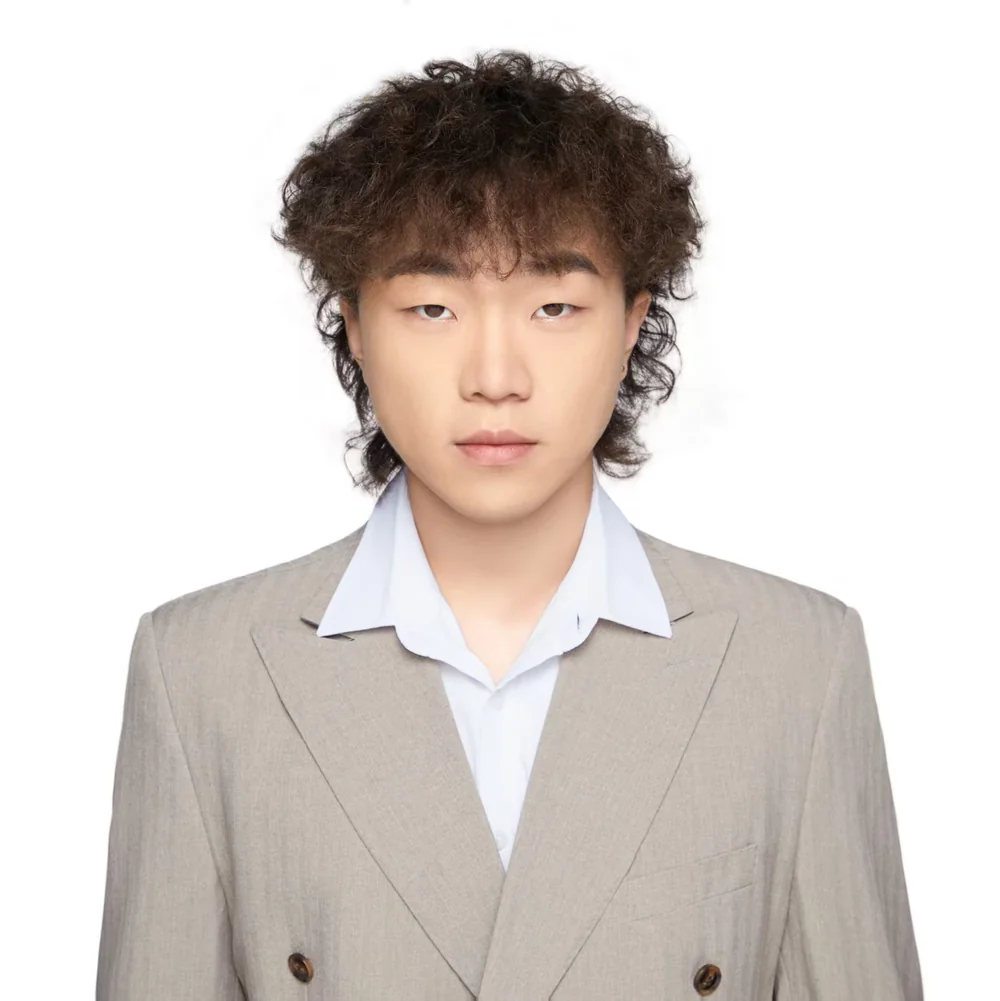
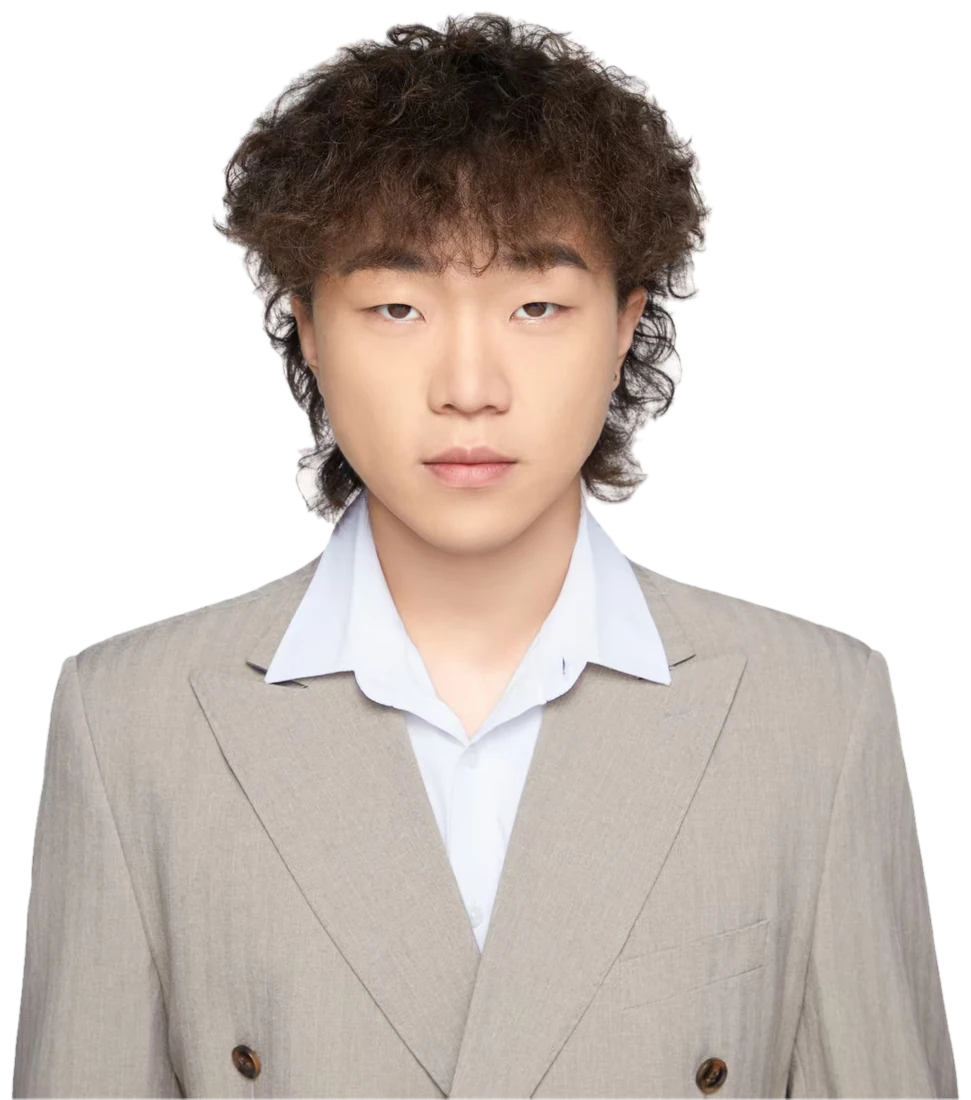
首页人物抠图去白底、移除证件照标签

diff --git a/index.html b/index.html
@@ -8,7 +8,7 @@
 <title>刘士博｜工业设计与产品开发</title>
 <style>
 :root{--paper:#f4f2ec;--white:#fffefa;--ink:#20211e;--muted:#73756e;--line:#d9d8d0;--accent:#d65b3d;--sage:#dfe6d8;--serif:Georgia,"Noto Serif SC",serif;--sans:Inter,"Microsoft YaHei","PingFang SC",sans-serif}
-*{box-sizing:border-box}html{scroll-behavior:smooth}body{margin:0;background:var(--paper);color:var(--ink);font-family:var(--sans);font-size:15px;line-height:1.65}a{color:inherit;text-decoration:none}button{font:inherit;color:inherit}.wrap{width:min(1180px,calc(100% - 64px));margin:auto}.topbar{height:82px;display:flex;align-items:center;justify-content:space-between;border-bottom:1px solid var(--line)}.brand{font-size:15px;font-weight:800;letter-spacing:.12em}.brand span{display:block;font-size:10px;color:var(--muted);font-weight:500;letter-spacing:.15em;margin-top:1px}.nav{display:flex;gap:30px;align-items:center;font-size:13px;color:#555750}.nav a:hover,.text-link:hover{color:var(--accent)}.nav .contact-pill{background:var(--ink);color:white;border-radius:30px;padding:10px 18px}.hero{min-height:590px;display:grid;grid-template-columns:1.02fr .98fr;gap:48px;align-items:center;padding:56px 0 70px}.eyebrow{display:flex;align-items:center;gap:10px;color:var(--muted);font-size:12px;letter-spacing:.12em;text-transform:uppercase}.eyebrow:before{content:"";width:26px;height:1px;background:var(--accent)}h1{font-size:clamp(44px,6vw,76px);line-height:1.12;letter-spacing:-.055em;margin:25px 0 20px;font-weight:650}h1 em{font-style:normal;color:var(--accent)}.hero-copy{font-size:17px;max-width:560px;color:#555750;line-height:1.9}.hero-tags{display:flex;gap:9px;flex-wrap:wrap;margin:25px 0 30px}.tag{border:1px solid #cecec5;border-radius:30px;padding:7px 12px;font-size:12px;color:#555750;background:#f8f7f2}.actions{display:flex;align-items:center;gap:22px}.button{border:0;border-radius:30px;padding:13px 21px;background:var(--ink);color:#fff;font-size:13px;display:inline-flex;gap:12px;align-items:center;cursor:pointer}.button:hover{background:var(--accent)}.text-link{font-size:13px}.hero-art{height:440px;position:relative;background:var(--sage);border-radius:4px;overflow:hidden}.hero-art img{width:100%;height:100%;object-fit:cover;mix-blend-mode:multiply}.hero-art img.hero-portrait{object-fit:cover;object-position:center 22%;mix-blend-mode:normal}.hero-resume{display:block;width:100%;height:100%;background:#fff;cursor:zoom-in}.hero-resume img{object-fit:contain;mix-blend-mode:normal;padding:10px}.resume-lightbox{position:fixed;inset:0;z-index:30;background:#171815ed;display:none;align-items:center;justify-content:center;padding:28px;cursor:zoom-out}.resume-lightbox.open{display:flex}.resume-lightbox img{height:min(94vh,1500px);max-width:min(90vw,1100px);width:auto;object-fit:contain;box-shadow:0 18px 70px #0008}.resume-lightbox span{position:absolute;top:18px;right:28px;color:#fff;font-size:38px;line-height:1}.hero-note{pointer-events:none;position:absolute;left:20px;bottom:18px;background:#fffefaed;padding:11px 14px;font-size:11px;color:#5e6059;letter-spacing:.04em}.hero-index{position:absolute;right:20px;top:18px;font-size:11px;letter-spacing:.14em;color:#63665e}.metrics{display:grid;grid-template-columns:repeat(4,1fr);border-top:1px solid var(--line);border-bottom:1px solid var(--line);padding:25px 0;margin-bottom:108px}.metric{padding:0 24px;border-right:1px solid var(--line)}.metric:first-child{padding-left:0}.metric:last-child{border:0}.metric strong{display:block;font:30px var(--serif);letter-spacing:-.04em}.metric span{font-size:12px;color:var(--muted)}section{padding-bottom:112px}.section-head{display:flex;justify-content:space-between;align-items:end;margin-bottom:31px}.section-kicker{font-size:11px;color:var(--accent);letter-spacing:.14em}.section-head h2{font-size:36px;letter-spacing:-.04em;line-height:1.2;margin:8px 0 0}.section-head p{max-width:390px;margin:0;color:var(--muted);font-size:13px}.filters{display:flex;gap:8px;margin:0 0 22px}.filter{border:1px solid var(--line);background:transparent;border-radius:30px;padding:7px 14px;font-size:12px;color:var(--muted);cursor:pointer}.filter.active,.filter:hover{background:var(--ink);color:white;border-color:var(--ink)}.projects{display:grid;grid-template-columns:repeat(2,1fr);gap:20px}.project-card{background:var(--white);border:1px solid #e6e4dc;overflow:hidden;transition:transform .25s,box-shadow .25s}.project-card:hover{transform:translateY(-4px);box-shadow:0 18px 38px #25251c12}.project-card.featured{grid-column:span 2;display:grid;grid-template-columns:1.1fr .9fr}.project-image{height:300px;overflow:hidden;background:#e7e6df}.featured .project-image{height:100%;min-height:390px}.project-image img{width:100%;height:100%;object-fit:cover;transition:transform .5s}.project-card:hover .project-image img{transform:scale(1.025)}.projects .project-card:nth-child(3) .project-image{background:#efedf4}.projects .project-card:nth-child(3) .project-image img{object-fit:contain;padding:12px}.projects .project-card:nth-child(5) .project-image img{object-position:center 40%}.projects .project-card:nth-child(6) .project-image img{object-position:center 38%}.project-content{padding:25px 26px 24px;display:flex;flex-direction:column;align-items:flex-start}.featured .project-content{padding:38px 40px}.project-meta{display:flex;justify-content:space-between;gap:12px;width:100%;font-size:11px;color:var(--muted);letter-spacing:.04em}.project-content h3{font-size:24px;line-height:1.35;letter-spacing:-.035em;margin:19px 0 9px}.featured h3{font-size:32px}.project-content p{color:#6a6c65;font-size:13px;margin:0;max-width:480px}.project-bottom{display:flex;align-items:center;justify-content:space-between;width:100%;margin-top:auto;padding-top:25px}.project-tags{display:flex;gap:7px;flex-wrap:wrap}.project-tags span{font-size:10px;border:1px solid var(--line);padding:4px 8px;border-radius:20px;color:#70726b}.open-case{border:0;background:none;color:var(--accent);cursor:pointer;font-size:12px;white-space:nowrap}.open-case span{font-size:17px;margin-left:7px}.about-grid{display:grid;grid-template-columns:.85fr 1.15fr;gap:70px}.about-intro{font:26px/1.55 var(--serif);letter-spacing:-.025em;max-width:420px}.about-intro em{font-style:normal;color:var(--accent)}.about-copy{color:#63655f;font-size:14px;line-height:2}.skill-grid{display:grid;grid-template-columns:repeat(2,1fr);gap:10px;margin-top:26px}.skill{background:#eeece5;padding:15px 17px}.skill strong{display:block;font-size:13px;margin-bottom:3px}.skill span{font-size:11px;color:var(--muted)}.timeline{border-top:1px solid var(--line)}.job{display:grid;grid-template-columns:180px 1fr 150px;gap:30px;padding:25px 0;border-bottom:1px solid var(--line)}.job-date{font-size:12px;color:var(--muted)}.job h3{font-size:18px;margin:0 0 5px}.job-role{font-size:12px;color:var(--accent)}.job ul{padding-left:18px;margin:13px 0 0;color:#666861;font-size:13px}.job li{padding:2px 0}.job-stat{text-align:right;font-size:12px;color:var(--muted)}.contact{background:var(--ink);color:var(--white);padding:55px 58px;display:grid;grid-template-columns:1fr 1fr;align-items:end;gap:30px}.contact .section-kicker{color:#ed927b}.contact h2{font-size:42px;letter-spacing:-.05em;margin:8px 0 12px}.contact p{color:#b4b5ae;max-width:440px;font-size:13px}.contact-items{display:flex;flex-direction:column;gap:10px;align-items:flex-start}.contact-items a{font-size:18px;border-bottom:1px solid #565750;padding-bottom:8px;transition:color .2s}.contact-items a:hover{color:#ed927b}.footer{padding:22px 0 32px;display:flex;justify-content:space-between;color:var(--muted);font-size:11px}.modal{position:fixed;inset:0;background:#171813b8;z-index:10;display:none;align-items:flex-start;justify-content:center;padding:35px 18px;overflow:auto}.modal.open{display:flex}.modal-box{background:var(--paper);width:min(920px,100%);position:relative;padding:35px 42px 42px;max-height:none}.modal-close{position:absolute;right:20px;top:17px;border:1px solid var(--line);border-radius:50%;width:36px;height:36px;background:transparent;cursor:pointer;font-size:20px}.modal-tag{color:var(--accent);font-size:11px;letter-spacing:.12em}.modal h2{font-size:34px;letter-spacing:-.04em;margin:9px 45px 10px 0}.modal-lead{font-size:14px;color:#666860;max-width:720px}.modal-facts{display:grid;grid-template-columns:repeat(3,1fr);gap:12px;margin:25px 0}.fact{border-top:1px solid var(--line);padding:12px 0}.fact span{display:block;font-size:10px;color:var(--muted);margin-bottom:4px}.fact strong{font-size:13px}.modal h3{font-size:17px;margin:26px 0 8px}.modal p,.modal li{font-size:13px;color:#666860;line-height:1.85}.modal-gallery{display:grid;grid-template-columns:repeat(2,1fr);gap:12px;margin-top:20px}.modal-gallery-stack{grid-template-columns:1fr}.modal-gallery img{width:100%;height:auto;display:block;background:#e6e5df}.modal-gallery img:first-child:last-child{grid-column:span 2}.modal-board{grid-column:span 2}.modal-note{font-size:11px!important;color:#85877f!important;margin-top:9px}.no-scroll{overflow:hidden}
+*{box-sizing:border-box}html{scroll-behavior:smooth}body{margin:0;background:var(--paper);color:var(--ink);font-family:var(--sans);font-size:15px;line-height:1.65}a{color:inherit;text-decoration:none}button{font:inherit;color:inherit}.wrap{width:min(1180px,calc(100% - 64px));margin:auto}.topbar{height:82px;display:flex;align-items:center;justify-content:space-between;border-bottom:1px solid var(--line)}.brand{font-size:15px;font-weight:800;letter-spacing:.12em}.brand span{display:block;font-size:10px;color:var(--muted);font-weight:500;letter-spacing:.15em;margin-top:1px}.nav{display:flex;gap:30px;align-items:center;font-size:13px;color:#555750}.nav a:hover,.text-link:hover{color:var(--accent)}.nav .contact-pill{background:var(--ink);color:white;border-radius:30px;padding:10px 18px}.hero{min-height:590px;display:grid;grid-template-columns:1.02fr .98fr;gap:48px;align-items:center;padding:56px 0 70px}.eyebrow{display:flex;align-items:center;gap:10px;color:var(--muted);font-size:12px;letter-spacing:.12em;text-transform:uppercase}.eyebrow:before{content:"";width:26px;height:1px;background:var(--accent)}h1{font-size:clamp(44px,6vw,76px);line-height:1.12;letter-spacing:-.055em;margin:25px 0 20px;font-weight:650}h1 em{font-style:normal;color:var(--accent)}.hero-copy{font-size:17px;max-width:560px;color:#555750;line-height:1.9}.hero-tags{display:flex;gap:9px;flex-wrap:wrap;margin:25px 0 30px}.tag{border:1px solid #cecec5;border-radius:30px;padding:7px 12px;font-size:12px;color:#555750;background:#f8f7f2}.actions{display:flex;align-items:center;gap:22px}.button{border:0;border-radius:30px;padding:13px 21px;background:var(--ink);color:#fff;font-size:13px;display:inline-flex;gap:12px;align-items:center;cursor:pointer}.button:hover{background:var(--accent)}.text-link{font-size:13px}.hero-art{height:480px;position:relative;display:flex;align-items:flex-end;justify-content:center}.hero-art img{height:100%;width:auto;max-width:100%;object-fit:contain;object-position:center bottom;mix-blend-mode:normal}.hero-resume{display:block;width:100%;height:100%;background:#fff;cursor:zoom-in}.hero-resume img{object-fit:contain;mix-blend-mode:normal;padding:10px}.resume-lightbox{position:fixed;inset:0;z-index:30;background:#171815ed;display:none;align-items:center;justify-content:center;padding:28px;cursor:zoom-out}.resume-lightbox.open{display:flex}.resume-lightbox img{height:min(94vh,1500px);max-width:min(90vw,1100px);width:auto;object-fit:contain;box-shadow:0 18px 70px #0008}.resume-lightbox span{position:absolute;top:18px;right:28px;color:#fff;font-size:38px;line-height:1}.hero-note{pointer-events:none;position:absolute;left:20px;bottom:18px;background:#fffefaed;padding:11px 14px;font-size:11px;color:#5e6059;letter-spacing:.04em}.hero-index{position:absolute;right:20px;top:18px;font-size:11px;letter-spacing:.14em;color:#63665e}.metrics{display:grid;grid-template-columns:repeat(4,1fr);border-top:1px solid var(--line);border-bottom:1px solid var(--line);padding:25px 0;margin-bottom:108px}.metric{padding:0 24px;border-right:1px solid var(--line)}.metric:first-child{padding-left:0}.metric:last-child{border:0}.metric strong{display:block;font:30px var(--serif);letter-spacing:-.04em}.metric span{font-size:12px;color:var(--muted)}section{padding-bottom:112px}.section-head{display:flex;justify-content:space-between;align-items:end;margin-bottom:31px}.section-kicker{font-size:11px;color:var(--accent);letter-spacing:.14em}.section-head h2{font-size:36px;letter-spacing:-.04em;line-height:1.2;margin:8px 0 0}.section-head p{max-width:390px;margin:0;color:var(--muted);font-size:13px}.filters{display:flex;gap:8px;margin:0 0 22px}.filter{border:1px solid var(--line);background:transparent;border-radius:30px;padding:7px 14px;font-size:12px;color:var(--muted);cursor:pointer}.filter.active,.filter:hover{background:var(--ink);color:white;border-color:var(--ink)}.projects{display:grid;grid-template-columns:repeat(2,1fr);gap:20px}.project-card{background:var(--white);border:1px solid #e6e4dc;overflow:hidden;transition:transform .25s,box-shadow .25s}.project-card:hover{transform:translateY(-4px);box-shadow:0 18px 38px #25251c12}.project-card.featured{grid-column:span 2;display:grid;grid-template-columns:1.1fr .9fr}.project-image{height:300px;overflow:hidden;background:#e7e6df}.featured .project-image{height:100%;min-height:390px}.project-image img{width:100%;height:100%;object-fit:cover;transition:transform .5s}.project-card:hover .project-image img{transform:scale(1.025)}.projects .project-card:nth-child(3) .project-image{background:#efedf4}.projects .project-card:nth-child(3) .project-image img{object-fit:contain;padding:12px}.projects .project-card:nth-child(5) .project-image img{object-position:center 40%}.projects .project-card:nth-child(6) .project-image img{object-position:center 38%}.project-content{padding:25px 26px 24px;display:flex;flex-direction:column;align-items:flex-start}.featured .project-content{padding:38px 40px}.project-meta{display:flex;justify-content:space-between;gap:12px;width:100%;font-size:11px;color:var(--muted);letter-spacing:.04em}.project-content h3{font-size:24px;line-height:1.35;letter-spacing:-.035em;margin:19px 0 9px}.featured h3{font-size:32px}.project-content p{color:#6a6c65;font-size:13px;margin:0;max-width:480px}.project-bottom{display:flex;align-items:center;justify-content:space-between;width:100%;margin-top:auto;padding-top:25px}.project-tags{display:flex;gap:7px;flex-wrap:wrap}.project-tags span{font-size:10px;border:1px solid var(--line);padding:4px 8px;border-radius:20px;color:#70726b}.open-case{border:0;background:none;color:var(--accent);cursor:pointer;font-size:12px;white-space:nowrap}.open-case span{font-size:17px;margin-left:7px}.about-grid{display:grid;grid-template-columns:.85fr 1.15fr;gap:70px}.about-intro{font:26px/1.55 var(--serif);letter-spacing:-.025em;max-width:420px}.about-intro em{font-style:normal;color:var(--accent)}.about-copy{color:#63655f;font-size:14px;line-height:2}.skill-grid{display:grid;grid-template-columns:repeat(2,1fr);gap:10px;margin-top:26px}.skill{background:#eeece5;padding:15px 17px}.skill strong{display:block;font-size:13px;margin-bottom:3px}.skill span{font-size:11px;color:var(--muted)}.timeline{border-top:1px solid var(--line)}.job{display:grid;grid-template-columns:180px 1fr 150px;gap:30px;padding:25px 0;border-bottom:1px solid var(--line)}.job-date{font-size:12px;color:var(--muted)}.job h3{font-size:18px;margin:0 0 5px}.job-role{font-size:12px;color:var(--accent)}.job ul{padding-left:18px;margin:13px 0 0;color:#666861;font-size:13px}.job li{padding:2px 0}.job-stat{text-align:right;font-size:12px;color:var(--muted)}.contact{background:var(--ink);color:var(--white);padding:55px 58px;display:grid;grid-template-columns:1fr 1fr;align-items:end;gap:30px}.contact .section-kicker{color:#ed927b}.contact h2{font-size:42px;letter-spacing:-.05em;margin:8px 0 12px}.contact p{color:#b4b5ae;max-width:440px;font-size:13px}.contact-items{display:flex;flex-direction:column;gap:10px;align-items:flex-start}.contact-items a{font-size:18px;border-bottom:1px solid #565750;padding-bottom:8px;transition:color .2s}.contact-items a:hover{color:#ed927b}.footer{padding:22px 0 32px;display:flex;justify-content:space-between;color:var(--muted);font-size:11px}.modal{position:fixed;inset:0;background:#171813b8;z-index:10;display:none;align-items:flex-start;justify-content:center;padding:35px 18px;overflow:auto}.modal.open{display:flex}.modal-box{background:var(--paper);width:min(920px,100%);position:relative;padding:35px 42px 42px;max-height:none}.modal-close{position:absolute;right:20px;top:17px;border:1px solid var(--line);border-radius:50%;width:36px;height:36px;background:transparent;cursor:pointer;font-size:20px}.modal-tag{color:var(--accent);font-size:11px;letter-spacing:.12em}.modal h2{font-size:34px;letter-spacing:-.04em;margin:9px 45px 10px 0}.modal-lead{font-size:14px;color:#666860;max-width:720px}.modal-facts{display:grid;grid-template-columns:repeat(3,1fr);gap:12px;margin:25px 0}.fact{border-top:1px solid var(--line);padding:12px 0}.fact span{display:block;font-size:10px;color:var(--muted);margin-bottom:4px}.fact strong{font-size:13px}.modal h3{font-size:17px;margin:26px 0 8px}.modal p,.modal li{font-size:13px;color:#666860;line-height:1.85}.modal-gallery{display:grid;grid-template-columns:repeat(2,1fr);gap:12px;margin-top:20px}.modal-gallery-stack{grid-template-columns:1fr}.modal-gallery img{width:100%;height:auto;display:block;background:#e6e5df}.modal-gallery img:first-child:last-child{grid-column:span 2}.modal-board{grid-column:span 2}.modal-note{font-size:11px!important;color:#85877f!important;margin-top:9px}.no-scroll{overflow:hidden}
 @media(max-width:800px){.wrap{width:min(100% - 36px,620px)}.topbar{height:68px}.nav{gap:14px}.nav a:not(.contact-pill){display:none}.hero{grid-template-columns:1fr;gap:28px;padding:56px 0 50px;min-height:unset}.hero-art{height:350px;grid-row:1}.hero-copy{font-size:15px}h1{font-size:52px}.metrics{margin-bottom:76px;grid-template-columns:repeat(2,1fr);gap:20px 0}.metric:nth-child(2){border:0}.metric:nth-child(3){padding-left:0}.section-head{display:block}.section-head p{margin-top:13px}.section-head h2{font-size:31px}.projects{grid-template-columns:1fr}.project-card.featured{grid-column:span 1;display:block}.featured .project-image{height:300px;min-height:0}.featured .project-content{padding:25px 26px 24px}.featured h3{font-size:25px}.project-image{height:265px}.about-grid{grid-template-columns:1fr;gap:18px}.about-intro{font-size:23px}.job{grid-template-columns:1fr auto;gap:8px 20px}.job-main{grid-column:1/-1;grid-row:2}.job-date{grid-column:1}.job-stat{grid-column:2;grid-row:1}.contact{grid-template-columns:1fr;padding:36px 27px}.contact h2{font-size:35px}.contact-items a{font-size:16px}.modal-box{padding:30px 22px}.modal h2{font-size:28px}.modal-facts{grid-template-columns:1fr 1fr}.modal-gallery{grid-template-columns:1fr}.modal-gallery img:first-child:last-child,.modal-board{grid-column:span 1}.footer{gap:20px;flex-wrap:wrap}}
 @media(max-width:420px){.wrap{width:calc(100% - 28px)}.hero-art{height:280px}h1{font-size:44px}.hero-tags{gap:6px}.tag{font-size:11px}.actions{gap:16px}.metric strong{font-size:25px}.project-image{height:230px}.job-stat{font-size:10px}.filters{overflow:auto}.filter{white-space:nowrap}}
 </style>
@@ -28,7 +28,7 @@
         <div class="hero-tags"><span class="tag">跨境电商产品开发</span><span class="tag">初级硬件产品经理</span><span class="tag">工业设计</span></div>
         <div class="actions"><a class="button" href="#projects">浏览作品 <span>↓</span></a><a class="text-link" href="#contact">查看联系方式 ↗</a></div>
       </div>
-      <div class="hero-art"><img class="hero-portrait" src="assets/portrait-liushibo.webp" alt="刘士博证件照"><span class="hero-index">证件照</span></div>
+      <div class="hero-art"><img class="hero-portrait" src="assets/portrait-liushibo.webp" alt="刘士博证件照"></div>
     </section>
     <div class="metrics" aria-label="项目经历概览">
       <div class="metric"><strong>8 款</strong><span>实习期间成功立项产品</span></div>
